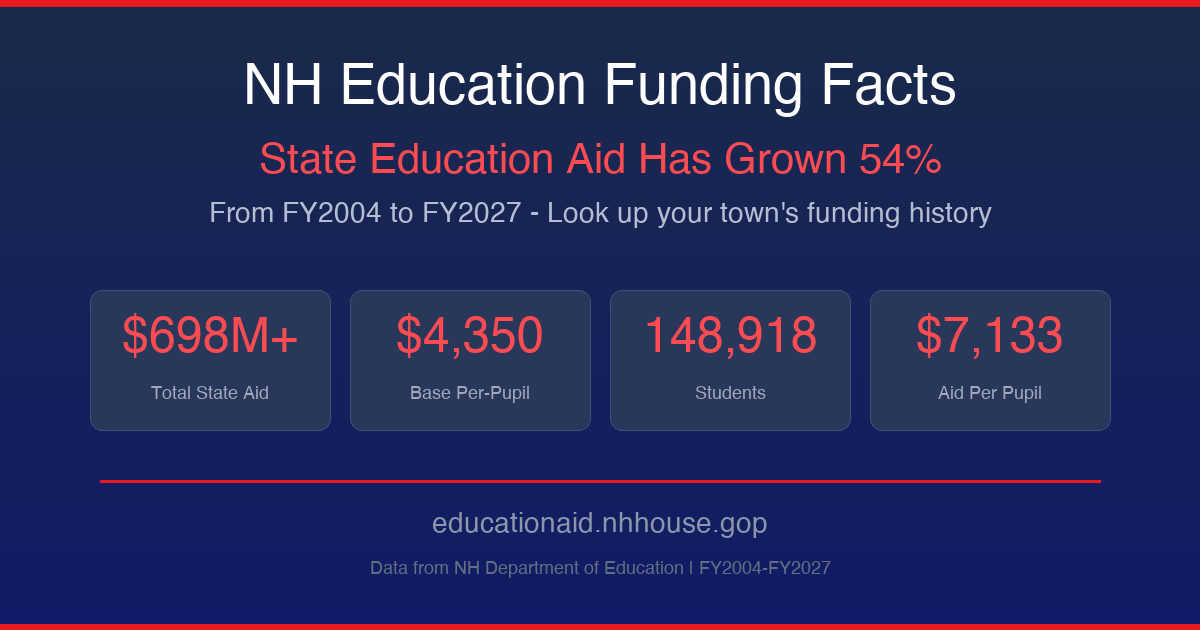
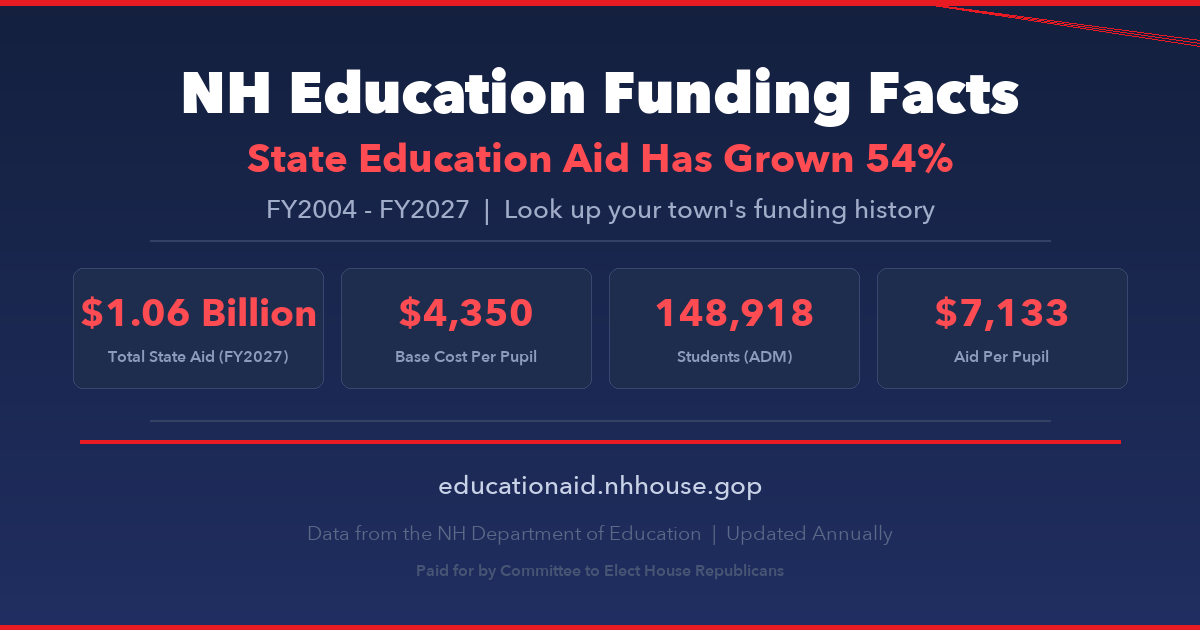
Regenerate OG image with Avenir Next font and correct numbers
- Uses Avenir Next Heavy/Bold for a cleaner look
- Updated stats: $1.06B total, $4,350 base, 148K students, $7,133/pupil
- Bar chart switched back to adequacy grants to match hero 54% growth
- Includes CEHR disclaimer

diff --git a/templates/index.html b/templates/index.html
@@ -71,7 +71,7 @@
 
             <!-- Total Aid Bar Chart -->
             <div class="bg-white rounded-xl shadow-md p-6">
-                <h3 class="text-lg font-semibold text-navy-800 mb-4">Total State Education Aid by Year</h3>
+                <h3 class="text-lg font-semibold text-navy-800 mb-4">Adequacy Aid Grants by Year</h3>
                 <div class="chart-container" style="height: 350px;">
                     <canvas id="totalAidChart"></canvas>
                 </div>
@@ -187,15 +187,15 @@ document.addEventListener('DOMContentLoaded', function() {
         }
     };
 
-    // 1. Total Aid Bar Chart
+    // 1. Total Aid Bar Chart (adequacy grants - matches hero growth %)
     new Chart(document.getElementById('totalAidChart'), {
         type: 'bar',
         data: {
             labels: yearLabels,
             datasets: [{
-                label: 'Total State Education Aid',
-                data: totalAll,
-                backgroundColor: totalAll.map((_, i) => i >= totalAll.length - 6 ? RED : NAVY),
+                label: 'Adequacy Aid Grants',
+                data: adequacy,
+                backgroundColor: adequacy.map((_, i) => i >= adequacy.length - 6 ? RED : NAVY),
                 borderRadius: 4,
             }]
         },

diff --git a/generate_og_image.py b/generate_og_image.py
@@ -8,102 +8,127 @@ WIDTH, HEIGHT = 1200, 630
 basedir = os.path.dirname(os.path.abspath(__file__))
 output_path = os.path.join(basedir, 'static', 'img', 'og-default.png')
 
-# Create image with gradient-like navy background
+# Fonts - Avenir Next for a clean, modern look
+AVENIR = "/System/Library/Fonts/Avenir Next.ttc"
+try:
+    font_heavy_xl = ImageFont.truetype(AVENIR, 58, index=8)   # Heavy
+    font_bold_lg = ImageFont.truetype(AVENIR, 40, index=0)    # Bold
+    font_medium = ImageFont.truetype(AVENIR, 26, index=5)     # Medium
+    font_bold_stat = ImageFont.truetype(AVENIR, 38, index=0)  # Bold
+    font_demi_label = ImageFont.truetype(AVENIR, 16, index=2) # Demi Bold
+    font_regular_sm = ImageFont.truetype(AVENIR, 20, index=7) # Regular
+except Exception:
+    font_heavy_xl = ImageFont.load_default()
+    font_bold_lg = font_heavy_xl
+    font_medium = font_heavy_xl
+    font_bold_stat = font_heavy_xl
+    font_demi_label = font_heavy_xl
+    font_regular_sm = font_heavy_xl
+
+# Create image
 img = Image.new('RGB', (WIDTH, HEIGHT))
 draw = ImageDraw.Draw(img)
 
-# Create gradient background (navy to darker navy)
+# Gradient background - deep navy to slightly lighter
 for y in range(HEIGHT):
-    r = int(27 - (y / HEIGHT) * 10)
-    g = int(42 - (y / HEIGHT) * 15)
-    b = int(74 + (y / HEIGHT) * 30)
-    draw.line([(0, y), (WIDTH, y)], fill=(max(r, 0), max(g, 0), min(b, 255)))
+    t = y / HEIGHT
+    r = int(20 + t * 12)
+    g = int(32 + t * 14)
+    b = int(62 + t * 35)
+    draw.line([(0, y), (WIDTH, y)], fill=(r, g, min(b, 255)))
 
-# Draw decorative red accent bar at top
-draw.rectangle([(0, 0), (WIDTH, 6)], fill=(232, 27, 35))
+# Top red accent bar
+draw.rectangle([(0, 0), (WIDTH, 5)], fill=(232, 27, 35))
 
-# Draw decorative red accent bar at bottom
-draw.rectangle([(0, HEIGHT - 6), (WIDTH, HEIGHT)], fill=(232, 27, 35))
-
-# Try to use a nice font, fall back to default
-try:
-    font_bold_xl = ImageFont.truetype("/System/Library/Fonts/Helvetica.ttc", 56)
-    font_bold_lg = ImageFont.truetype("/System/Library/Fonts/Helvetica.ttc", 42)
-    font_regular = ImageFont.truetype("/System/Library/Fonts/Helvetica.ttc", 28)
-    font_stat = ImageFont.truetype("/System/Library/Fonts/Helvetica.ttc", 48)
-    font_stat_label = ImageFont.truetype("/System/Library/Fonts/Helvetica.ttc", 18)
-except:
-    font_bold_xl = ImageFont.load_default()
-    font_bold_lg = font_bold_xl
-    font_regular = font_bold_xl
-    font_stat = font_bold_xl
-    font_stat_label = font_bold_xl
+# Subtle diagonal accent line (decorative)
+for i in range(3):
+    offset = 40 + i * 3
+    draw.line([(WIDTH - 300, 0), (WIDTH, offset)], fill=(232, 27, 35, 60), width=1)
 
 # Title
 title = "NH Education Funding Facts"
-bbox = draw.textbbox((0, 0), title, font=font_bold_xl)
+bbox = draw.textbbox((0, 0), title, font=font_heavy_xl)
 tw = bbox[2] - bbox[0]
-draw.text(((WIDTH - tw) / 2, 60), title, fill=(255, 255, 255), font=font_bold_xl)
+draw.text(((WIDTH - tw) / 2, 55), title, fill=(255, 255, 255), font=font_heavy_xl)
 
-# Subtitle
+# Subtitle with growth stat
 subtitle = "State Education Aid Has Grown 54%"
 bbox = draw.textbbox((0, 0), subtitle, font=font_bold_lg)
 tw = bbox[2] - bbox[0]
-draw.text(((WIDTH - tw) / 2, 140), subtitle, fill=(255, 75, 82), font=font_bold_lg)
+draw.text(((WIDTH - tw) / 2, 132), subtitle, fill=(255, 75, 82), font=font_bold_lg)
 
 # Description
-desc = "From FY2004 to FY2027 - Look up your town's funding history"
-bbox = draw.textbbox((0, 0), desc, font=font_regular)
+desc = "FY2004 - FY2027  |  Look up your town's funding history"
+bbox = draw.textbbox((0, 0), desc, font=font_medium)
 tw = bbox[2] - bbox[0]
-draw.text(((WIDTH - tw) / 2, 200), desc, fill=(180, 190, 210), font=font_regular)
+draw.text(((WIDTH - tw) / 2, 192), desc, fill=(160, 172, 200), font=font_medium)
 
-# Stat boxes
+# Thin separator line
+draw.rectangle([(150, 240), (WIDTH - 150, 241)], fill=(50, 65, 100))
+
+# Stat boxes - 4 cards
 stats = [
-    ("$698M+", "Total State Aid"),
-    ("$4,350", "Base Per-Pupil"),
-    ("148,918", "Students"),
+    ("$1.06 Billion", "Total State Aid (FY2027)"),
+    ("$4,350", "Base Cost Per Pupil"),
+    ("148,918", "Students (ADM)"),
     ("$7,133", "Aid Per Pupil"),
 ]
 
-box_width = 240
-box_height = 140
-total_width = len(stats) * box_width + (len(stats) - 1) * 20
+box_width = 250
+box_height = 120
+gap = 18
+total_width = len(stats) * box_width + (len(stats) - 1) * gap
 start_x = (WIDTH - total_width) / 2
-start_y = 290
+start_y = 268
 
 for i, (value, label) in enumerate(stats):
-    x = start_x + i * (box_width + 20)
-    # Draw semi-transparent box
+    x = start_x + i * (box_width + gap)
+
+    # Card background with subtle border
     draw.rounded_rectangle(
         [(x, start_y), (x + box_width, start_y + box_height)],
-        radius=12,
-        fill=(40, 55, 90),
-        outline=(60, 80, 120),
+        radius=10,
+        fill=(30, 45, 78),
+        outline=(55, 72, 110),
         width=1
     )
-    # Value
-    bbox = draw.textbbox((0, 0), value, font=font_stat)
+
+    # Value - centered
+    bbox = draw.textbbox((0, 0), value, font=font_bold_stat)
     vw = bbox[2] - bbox[0]
-    draw.text((x + (box_width - vw) / 2, start_y + 25), value, fill=(255, 75, 82), font=font_stat)
-    # Label
-    bbox = draw.textbbox((0, 0), label, font=font_stat_label)
+    draw.text((x + (box_width - vw) / 2, start_y + 20), value, fill=(255, 75, 82), font=font_bold_stat)
+
+    # Label - centered, wraps if needed
+    bbox = draw.textbbox((0, 0), label, font=font_demi_label)
     lw = bbox[2] - bbox[0]
-    draw.text((x + (box_width - lw) / 2, start_y + 95), label, fill=(160, 170, 190), font=font_stat_label)
+    draw.text((x + (box_width - lw) / 2, start_y + 78), label, fill=(140, 155, 185), font=font_demi_label)
 
-# Red accent line
-draw.rectangle([(100, 480), (WIDTH - 100, 482)], fill=(232, 27, 35))
+# Bottom separator
+draw.rectangle([(150, 420), (WIDTH - 150, 421)], fill=(50, 65, 100))
 
-# Bottom text
-bottom = "educationaid.nhhouse.gop"
-bbox = draw.textbbox((0, 0), bottom, font=font_regular)
+# Red accent bar near bottom
+draw.rectangle([(80, 440), (WIDTH - 80, 443)], fill=(232, 27, 35))
+
+# Domain
+domain = "educationaid.nhhouse.gop"
+bbox = draw.textbbox((0, 0), domain, font=font_medium)
 tw = bbox[2] - bbox[0]
-draw.text(((WIDTH - tw) / 2, 510), bottom, fill=(140, 150, 170), font=font_regular)
+draw.text(((WIDTH - tw) / 2, 468), domain, fill=(200, 210, 230), font=font_medium)
 
 # Attribution
-attr = "Data from NH Department of Education | FY2004-FY2027"
-bbox = draw.textbbox((0, 0), attr, font=font_stat_label)
+attr = "Data from the NH Department of Education  |  Updated Annually"
+bbox = draw.textbbox((0, 0), attr, font=font_regular_sm)
 tw = bbox[2] - bbox[0]
-draw.text(((WIDTH - tw) / 2, 560), attr, fill=(100, 110, 130), font=font_stat_label)
+draw.text(((WIDTH - tw) / 2, 520), attr, fill=(90, 105, 135), font=font_regular_sm)
+
+# Bottom red accent
+draw.rectangle([(0, HEIGHT - 5), (WIDTH, HEIGHT)], fill=(232, 27, 35))
+
+# Paid for disclaimer
+disclaimer = "Paid for by Committee to Elect House Republicans"
+bbox = draw.textbbox((0, 0), disclaimer, font=font_demi_label)
+tw = bbox[2] - bbox[0]
+draw.text(((WIDTH - tw) / 2, 560), disclaimer, fill=(70, 85, 115), font=font_demi_label)
 
 img.save(output_path, 'PNG', quality=95)
 print(f"OG image saved to {output_path}")
